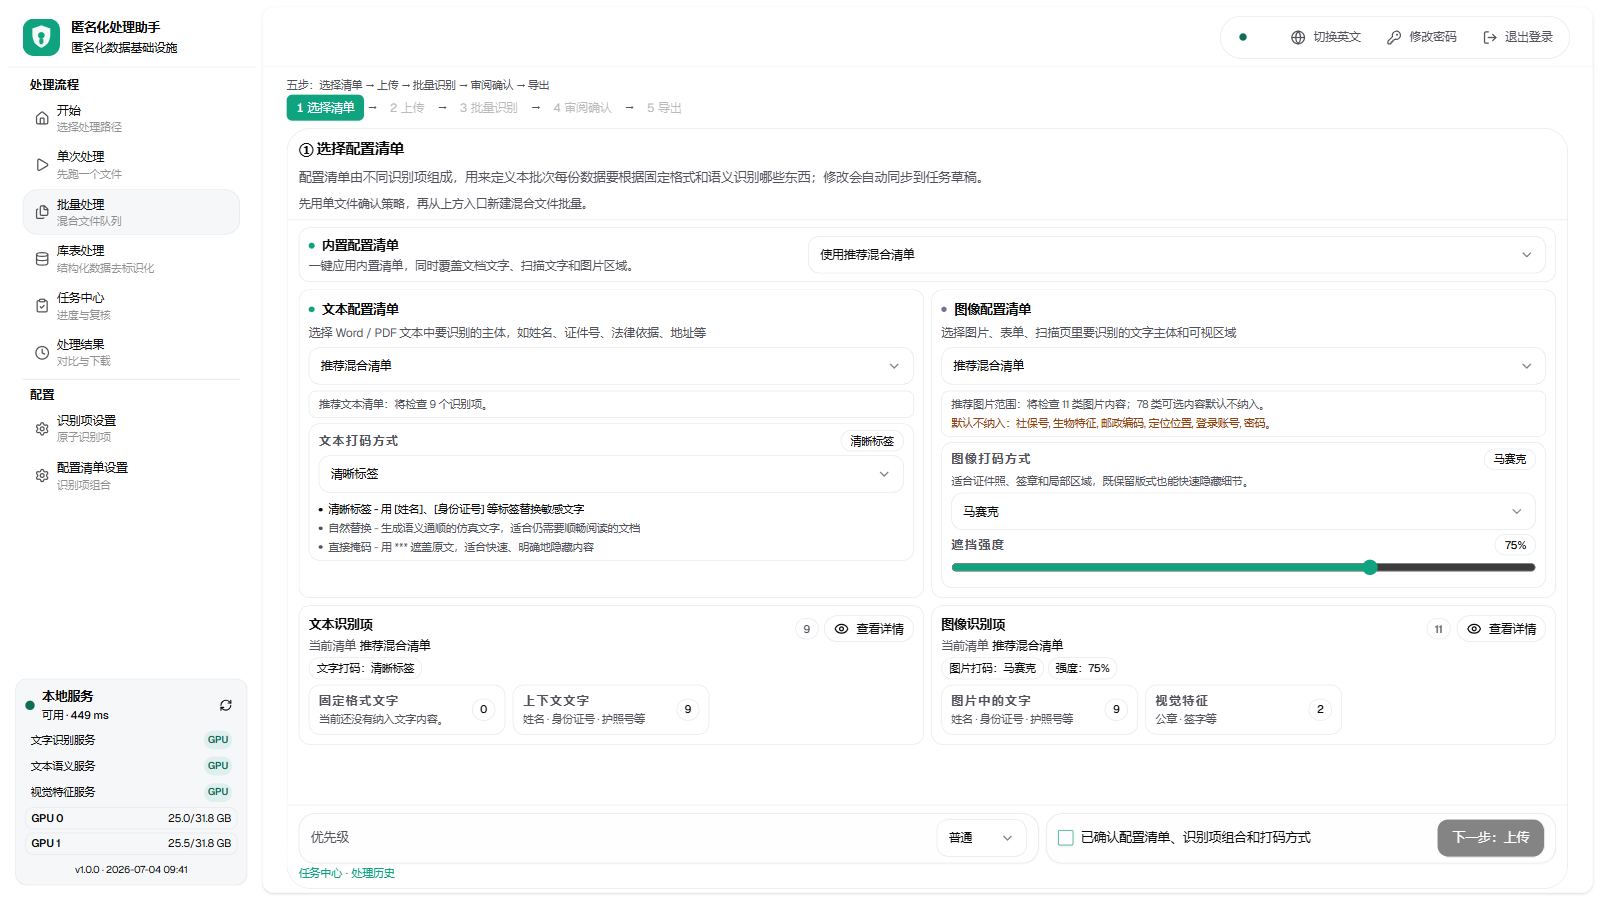
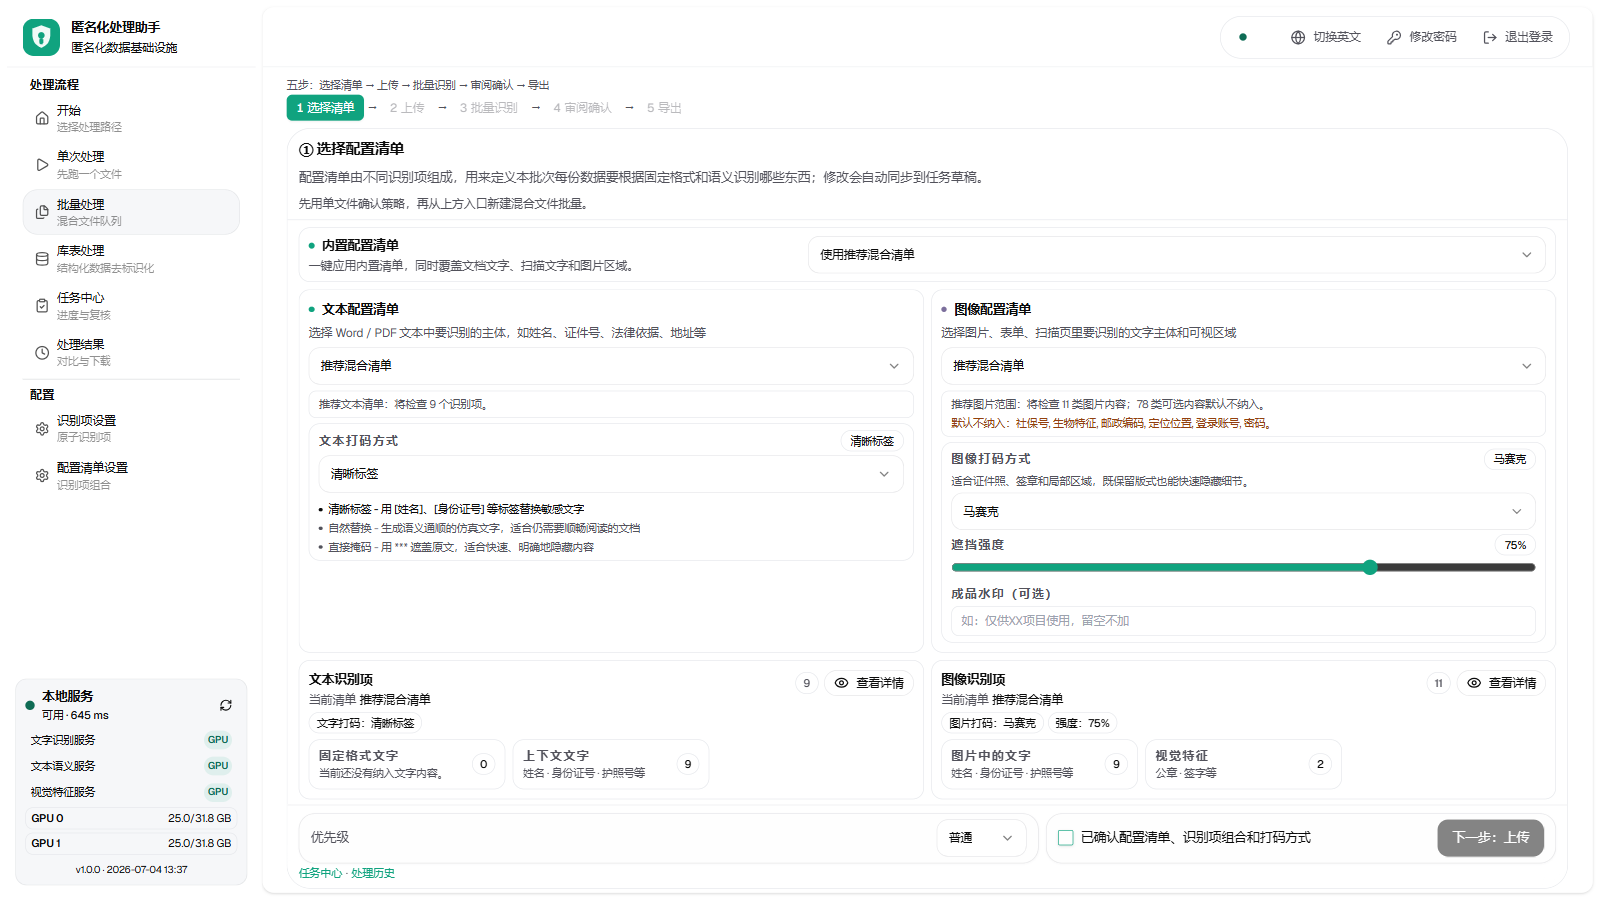
docs+test: acceptance closeout - delivery checklist, longevity/EN scans, fresh screenshots (F1-4+F2)
New one-page delivery checklist (docs/交付清单.md): capability/quality/
security/delivery matrices, every row backed by a named live-verified
artifact, plus an honest known-boundaries section (single-worker form
factor, entity descriptions staying Chinese as editable data, synthetic
corpora for finance/gov pending real samples).

Round-4 deep-audit verdicts, evidence-first: longevity_scan.py drives 140
navigations with CDP-forced GC - heap 6.3MB -> 4.9MB, zero leak signature
(the naive first run showed x4.83 growth, an un-GC'd false positive worth
recording); fault-injection struck as already-proven (OfflineBanner
battle-tested in the W0 incident, backend-restart self-heal exercised by
every deploy); browser-compat static scan found zero Chrome-only APIs on
Vite's modern baseline. Manual screenshots recaptured with the current UI.

diff --git a/e2e/longevity_scan.py b/e2e/longevity_scan.py
@@ -1,0 +1,42 @@
+# Copyright 2026 DataInfra-RedactionEverything Contributors
+"""F2-2 长会话取证：20 轮全路由循环导航，JS 堆增长曲线。
+
+判定：末轮堆 < 首轮×2 且绝对值 < 300MB 视为无泄漏迹象（SPA 常态波动内）。
+"""
+from __future__ import annotations
+
+from common import BASE_URL, login, run
+
+ROUTES = ["/", "/single", "/batch", "/structured/files", "/history", "/jobs", "/settings"]
+LOOPS = 20
+
+
+def heap_mb(page) -> float:
+    return page.evaluate("() => (performance.memory?.usedJSHeapSize || 0) / 1048576")
+
+
+def scenario(page) -> None:
+    login(page)
+    # CDP 强制 GC：不带 --expose-gc 时 window.gc 不存在，未 GC 堆会自然堆积造成假阳性
+    cdp = page.context.new_cdp_session(page)
+    samples: list[float] = []
+    for i in range(LOOPS):
+        for route in ROUTES:
+            page.goto(f"{BASE_URL}{route}", wait_until="domcontentloaded")
+            page.wait_for_timeout(350)
+        cdp.send("HeapProfiler.collectGarbage")
+        page.wait_for_timeout(300)
+        mb = heap_mb(page)
+        samples.append(mb)
+        if i % 5 == 0 or i == LOOPS - 1:
+            print(f"  [loop {i + 1:02d}] heap={mb:.1f}MB")
+    first_avg = sum(samples[:3]) / 3
+    last_avg = sum(samples[-3:]) / 3
+    growth = last_avg / max(first_avg, 1)
+    print(f"\n  first3={first_avg:.1f}MB last3={last_avg:.1f}MB growth×{growth:.2f}")
+    assert last_avg < 300, f"absolute heap too high: {last_avg:.1f}MB"
+    assert growth < 2.0, f"heap doubled over {LOOPS} loops: ×{growth:.2f} — leak suspected"
+    print("  [ok] no leak signature over 140 navigations")
+
+
+run(scenario)

diff --git a/docs/交付清单.md b/docs/交付清单.md
@@ -1,0 +1,59 @@
+# 交付清单（四轮整改收口 · 2026-07-04）
+
+一页纸对账：卖百万级企业匿名化平台的能力与证据。全部结论来自生产双卡 RTX 5090 自动化实测，测试资产随代码库版本化，客户环境可复跑。
+
+## 功能
+
+| 能力 | 状态 | 证据 |
+|---|---|---|
+| 非结构化：文本/Word/PDF/扫描件/图像全链路匿名化 | ✅ | golden_single / golden_batch |
+| 结构化：CSV/XLSX/JSONL/SQLite + 直连 PG/MySQL，字段级策略 | ✅ | golden_structured |
+| 视觉要素：公章/签名/二维码/指纹/手写 | ✅ | 视觉识别项 30 项，golden_single 图像轨 |
+| 四行业包：法律/医疗/金融/政务 | ✅ | identity 召回 4×100%（e2e/industry_recall.py） |
+| 万级批量：6,720 份实测、批量确认秒回、异步分卷导出 | ✅ | PM 生产实测 + 万级分页/轻量详情 |
+| 成品水印 / 完成通知 / 键盘审阅流 | ✅ | 真机像素级 E2E / vitest |
+| 断点续传、断网重试、幂等上传 | ✅ | PM 实战修复 + E2E |
+
+## 质量
+
+| 项 | 数值 | 证据 |
+|---|---|---|
+| 后端测试 | 288 通过 | pytest（TDD 全程） |
+| 端到端路径 | 10 条（含并发/EN 扫描/长会话） | e2e/，有头 Chrome 打真机 |
+| 识别质量门槛 | identity=100% 进闸门，掉数即失败 | 四行业记分卡 |
+| 吞吐 | 32.21 文件/分（双卡） | benchmark_throughput，误差法实测 |
+| 万级恢复 | 详情载荷 38MB→3.65MB | W0 实测 |
+| 双账号并发 | 全链路成功，零租户泄漏 | concurrent_users.py |
+| 长会话 | 140 次导航堆无泄漏签名 | longevity_scan.py（强制 GC 取证） |
+| EN 界面 | UI 文案泄漏 0（机器判定） | en_locale_scan.py |
+
+## 安全与合规
+
+| 项 | 状态 |
+|---|---|
+| 五角色矩阵 + 逐人批量确认授权 + 账号禁用/启用（即刻生效） | ✅ |
+| 审计日志（全量留痕+检索+CSV 导出+50MB×10 轮转） | ✅ |
+| 回收站（文件+数据集，7 天还原窗，超期自清） | ✅ |
+| 数据保留策略 / 磁盘水位监控 | ✅ |
+| 登录限速锁定 / 密码四要素 / 上传导出限流 / JWT+CSRF | ✅ |
+| 离线 License（Ed25519，只读宽限不锁数据，界面内续期） | ✅（默认关） |
+| LDAP/AD 对接（组→角色映射，管理员本地兜底） | ✅（默认关） |
+| API 密钥（M2M，哈希存储/只读读写域/吊销） | ✅ |
+| 本地部署数据不出域，生产关闭 swagger | ✅ |
+
+## 交付与运维
+
+| 项 | 状态 | 证据 |
+|---|---|---|
+| 一键升级+90s 健康门禁+自动回滚 | ✅ | 真机 UPGRADE_OK×2 次演练 |
+| 全新安装 Runbook / 备份恢复手册 | ✅ | deploy/RUNBOOK.md、backend/docs/backup-restore.md |
+| 全量热备（4 库+密钥/配置）+文件树增量+停服恢复 CLI | ✅ | 真机 9 目标全过 |
+| 故障自愈：重启重排队+30s 僵死看门狗+库损坏自动恢复 | ✅ | 每次部署即实证 |
+| 白标：4 个构建变量整站换牌 | ✅ | VITE_BRAND_* |
+| 白皮书 / 操作手册（真机截图）/ 演示动线 | ✅ | docs/ |
+
+## 已知边界（如实陈述）
+
+- 单机单 worker 部署形态（多 worker 有文档化约束）；PG/达梦元数据层为路线图选项（触发条件见白皮书 §6）
+- 识别项英文界面下：系统项名称已本地化，**描述**为可编辑数据保持中文
+- 金融/政务行业包用合成语料验收（真实样本到位后复跑 industry_recall 即完成硬化）
